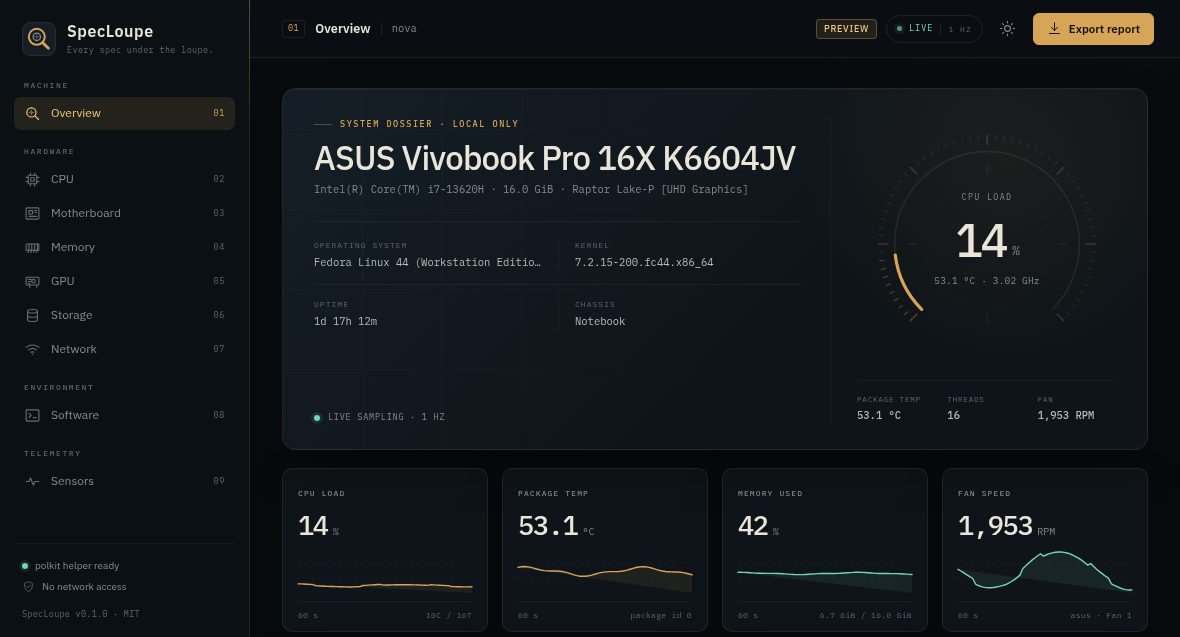
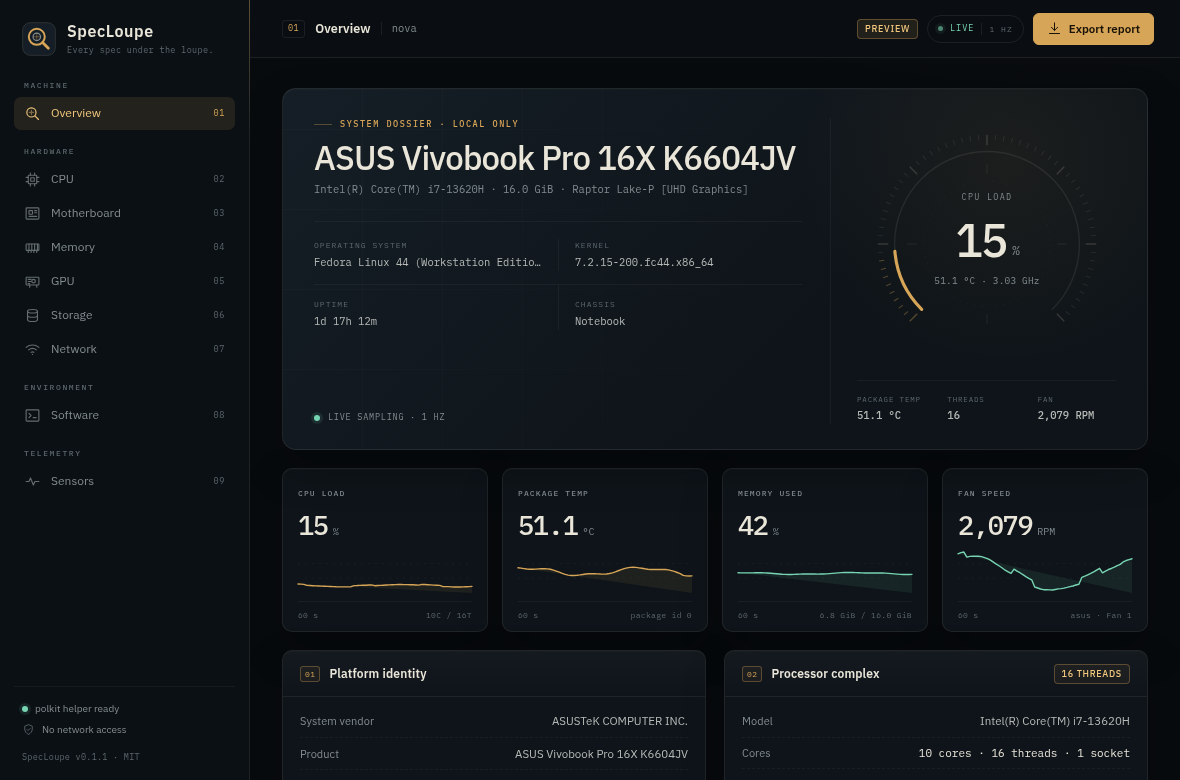
feat: dark-only interface and automatic secured-data request

diff --git a/src/App.tsx b/src/App.tsx
@@ -8,7 +8,6 @@ import { ErrorScreen, LoadingScreen } from "./components/States";
 import { useLive } from "./hooks/useLive";
 import { usePrivileged } from "./hooks/usePrivileged";
 import { useSystemInfo } from "./hooks/useSystemInfo";
-import { useTheme } from "./hooks/useTheme";
 import { t } from "./i18n/en";
 import { TABS } from "./lib/tabs";
 import type { TabId } from "./lib/types";
@@ -27,11 +26,23 @@ export default function App() {
   const [exportOpen, setExportOpen] = useState(false);
   const [toast, setToast] = useState<string | null>(null);
   const contentRef = useRef<HTMLDivElement>(null);
+  const privilegedRequested = useRef(false);
 
-  const { theme, toggle } = useTheme();
   const system = useSystemInfo();
   const live = useLive();
   const privileged = usePrivileged();
+
+  // Request privileged DMI/SMART access once, as soon as the app identifies the machine.
+  useEffect(() => {
+    if (privilegedRequested.current) {
+      return;
+    }
+    if (!system.info?.capabilities.privilegedAvailable) {
+      return;
+    }
+    privilegedRequested.current = true;
+    void privileged.load();
+  }, [system.info, privileged.load]);
 
   useEffect(() => {
     if (contentRef.current) {
@@ -92,8 +103,6 @@ export default function App() {
             overview={info.overview}
             demo={system.demo}
             paused={live.paused}
-            theme={theme}
-            onToggleTheme={toggle}
             onExport={() => setExportOpen(true)}
           />
         ) : (

diff --git a/src/styles/tokens.css b/src/styles/tokens.css
@@ -54,48 +54,3 @@
   --topbar-height: 58px;
   --ease: cubic-bezier(0.22, 0.61, 0.36, 1);
 }
-
-[data-theme="light"] {
-  color-scheme: light;
-
-  --bg: #f1ede4;
-  --bg-shell: #f4f0e8;
-  --sidebar: #eae5d9;
-  --panel: #fbf9f3;
-  --panel-alt: #f5f1e7;
-  --panel-raised: #fffdf8;
-
-  --line-soft: rgba(35, 34, 28, 0.055);
-  --line: rgba(35, 34, 28, 0.105);
-  --line-strong: rgba(35, 34, 28, 0.2);
-
-  --text: #24282a;
-  --text-dim: #3f4649;
-  --text-muted: #6c7376;
-  --text-faint: #959a9a;
-
-  --accent: #97631b;
-  --accent-strong: #7a4f12;
-  --accent-soft: rgba(151, 99, 27, 0.1);
-  --accent-soft-2: rgba(151, 99, 27, 0.045);
-  --accent-line: rgba(151, 99, 27, 0.34);
-
-  --mint: #127a60;
-  --mint-soft: rgba(18, 122, 96, 0.09);
-  --mint-line: rgba(18, 122, 96, 0.32);
-
-  --danger: #bf4a3c;
-  --danger-soft: rgba(191, 74, 60, 0.09);
-  --danger-line: rgba(191, 74, 60, 0.32);
-
-  --warn: #94650f;
-  --warn-soft: rgba(148, 101, 15, 0.1);
-  --warn-line: rgba(148, 101, 15, 0.32);
-
-  --hover: rgba(52, 38, 12, 0.028);
-  --grid-line: rgba(35, 34, 28, 0.045);
-  --glow: rgba(151, 99, 27, 0.06);
-
-  --shadow-panel: 0 1px 0 rgba(255, 255, 255, 0.7) inset, 0 14px 30px rgba(74, 58, 28, 0.07);
-  --shadow-dialog: 0 40px 100px rgba(56, 44, 20, 0.24);
-}

diff --git a/src/components/TopBar.tsx b/src/components/TopBar.tsx
@@ -8,8 +8,6 @@ interface TopBarProps {
   overview: Overview;
   demo: boolean;
   paused: boolean;
-  theme: "dark" | "light";
-  onToggleTheme: () => void;
   onExport: () => void;
 }
 
@@ -18,8 +16,6 @@ export function TopBar({
   overview,
   demo,
   paused,
-  theme,
-  onToggleTheme,
   onExport,
 }: TopBarProps) {
   const meta = tabMeta(active);
@@ -50,16 +46,6 @@ export function TopBar({
           <span className="live-state">{paused ? t.topbar.paused : t.topbar.live}</span>
           <span className="live-rate">{t.topbar.sampling}</span>
         </span>
-
-        <button
-          type="button"
-          className="icon-button"
-          onClick={onToggleTheme}
-          title={theme === "dark" ? t.topbar.themeToLight : t.topbar.themeToDark}
-          aria-label={theme === "dark" ? t.topbar.themeToLight : t.topbar.themeToDark}
-        >
-          <Icon name={theme === "dark" ? "sun" : "moon"} size={17} />
-        </button>
 
         <button type="button" className="button button-accent" onClick={onExport}>
           <Icon name="download" size={15} />

diff --git a/index.html b/index.html
@@ -1,5 +1,5 @@
 <!doctype html>
-<html lang="en" data-theme="dark">
+<html lang="en">
   <head>
     <meta charset="UTF-8" />
     <link rel="icon" type="image/svg+xml" href="/specloupe.svg" />
@@ -10,22 +10,6 @@
       content="SpecLoupe — every spec under the loupe. A local-first Linux hardware and system inspector."
     />
     <title>SpecLoupe — Every spec under the loupe</title>
-    <script>
-      (() => {
-        try {
-          const stored = localStorage.getItem("specloupe-theme");
-          const theme =
-            stored === "light" || stored === "dark"
-              ? stored
-              : window.matchMedia("(prefers-color-scheme: light)").matches
-                ? "light"
-                : "dark";
-          document.documentElement.dataset.theme = theme;
-        } catch {
-          document.documentElement.dataset.theme = "dark";
-        }
-      })();
-    </script>
   </head>
 
   <body>

diff --git a/src/i18n/en.ts b/src/i18n/en.ts
@@ -2,7 +2,7 @@ export const t = {
   app: {
     name: "SpecLoupe",
     tagline: "Every spec under the loupe.",
-    version: "v0.1.0",
+    version: "v0.1.1",
     license: "MIT",
   },
   groups: {
@@ -29,8 +29,6 @@ export const t = {
     preview: "Preview",
     demoHint: "Sample data — running outside the desktop shell",
     export: "Export report",
-    themeToDark: "Switch to dark theme",
-    themeToLight: "Switch to light theme",
     restrictedReady: "polkit helper ready",
     standardUser: "standard user",
     noNetwork: "No network access",

diff --git a/src/components/Icon.tsx b/src/components/Icon.tsx
@@ -73,15 +73,6 @@ function paths(name: IconName) {
       );
     case "sensors":
       return <path d="M3 12h4l2.2-5 4 10 2.3-5H21" />;
-    case "sun":
-      return (
-        <>
-          <circle cx="12" cy="12" r="4" />
-          <path d="M12 2v2M12 20v2M2 12h2M20 12h2M5 5l1.4 1.4M17.6 17.6 19 19M19 5l-1.4 1.4M6.4 17.6 5 19" />
-        </>
-      );
-    case "moon":
-      return <path d="M20 14.5A8.5 8.5 0 0 1 9.5 4 8.5 8.5 0 1 0 20 14.5Z" />;
     case "download":
       return (
         <>

diff --git a/src/styles/app.css b/src/styles/app.css
@@ -450,14 +450,6 @@ button {
   color: #181207;
 }
 
-[data-theme="light"] .button-accent {
-  color: #fffaf0;
-}
-
-[data-theme="light"] .button-accent:hover {
-  color: #fffaf0;
-}
-
 .button-quiet {
   background: transparent;
 }
@@ -2433,10 +2425,6 @@ button {
   -webkit-backdrop-filter: blur(9px);
   backdrop-filter: blur(9px);
   animation: fade 0.18s var(--ease);
-}
-
-[data-theme="light"] .dialog-backdrop {
-  background: rgba(46, 37, 20, 0.28);
 }
 
 .dialog {

diff --git a/src/lib/tabs.ts b/src/lib/tabs.ts
@@ -10,8 +10,6 @@ export type IconName =
   | "network"
   | "software"
   | "sensors"
-  | "sun"
-  | "moon"
   | "download"
   | "refresh"
   | "lock"

diff --git a/README.md b/README.md
@@ -137,7 +137,7 @@ Without Tauri, SpecLoupe automatically switches to a clearly labeled **Preview**
 src/                     React + TypeScript interface
   pages/                 One component per tab
   components/            Shared cards, gauges, sparklines, spec rows, dialogs
-  hooks/                 Data loading, live sampling, theme, privileged data
+  hooks/                 Data loading, live sampling, privileged data
   lib/                   API bridge, formatting, demo data, report builder
   styles/                Design tokens and the full visual system
 src-tauri/src/
